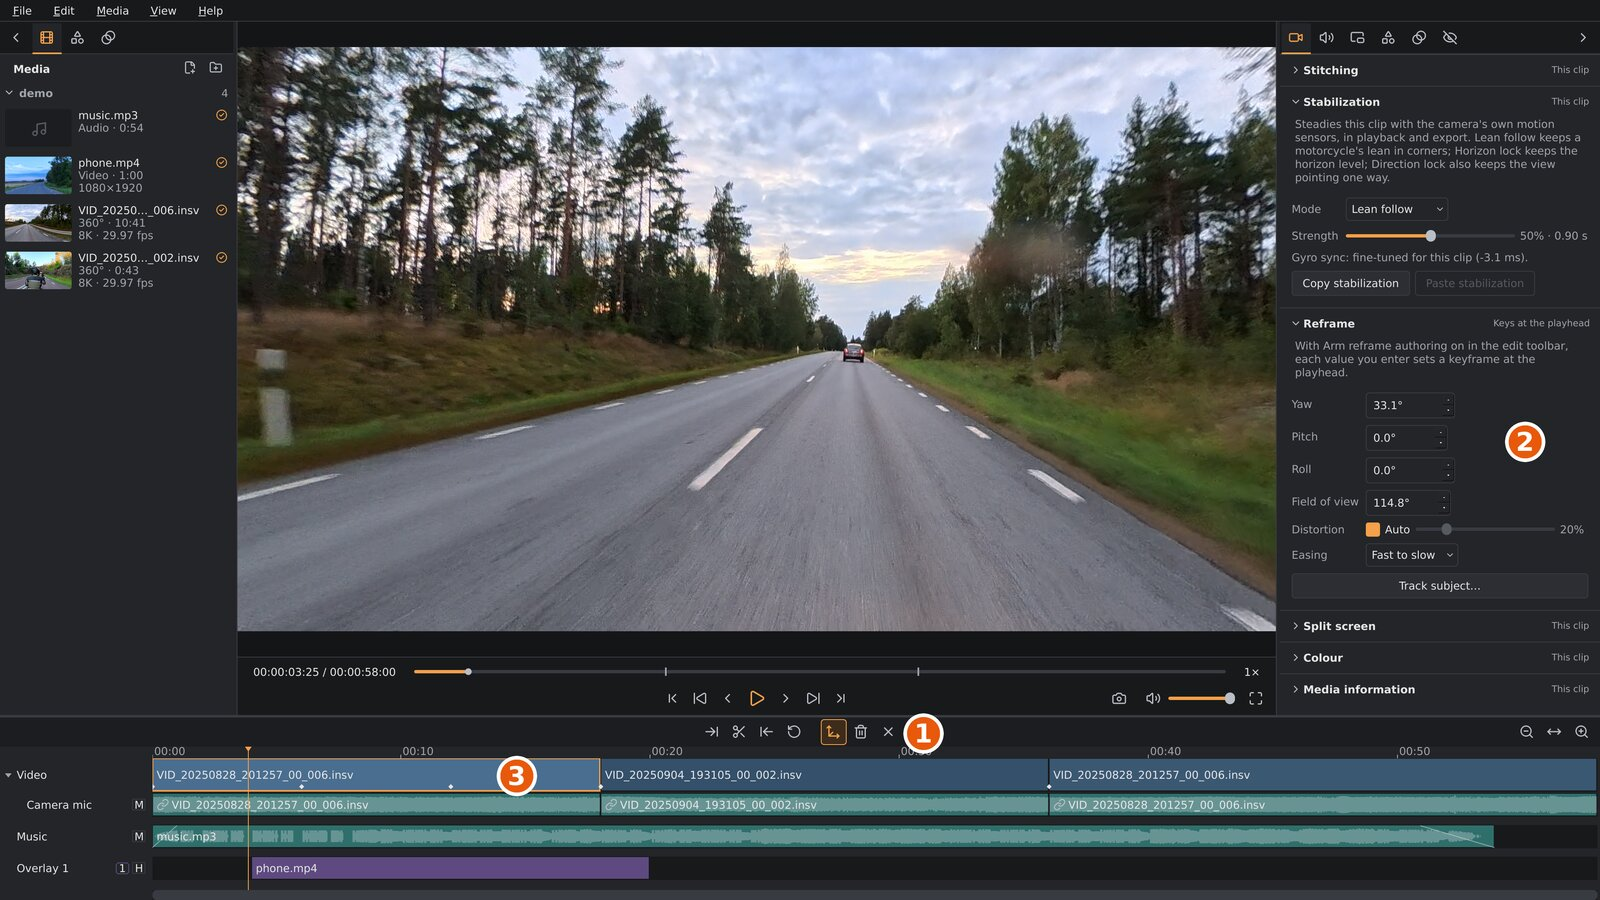
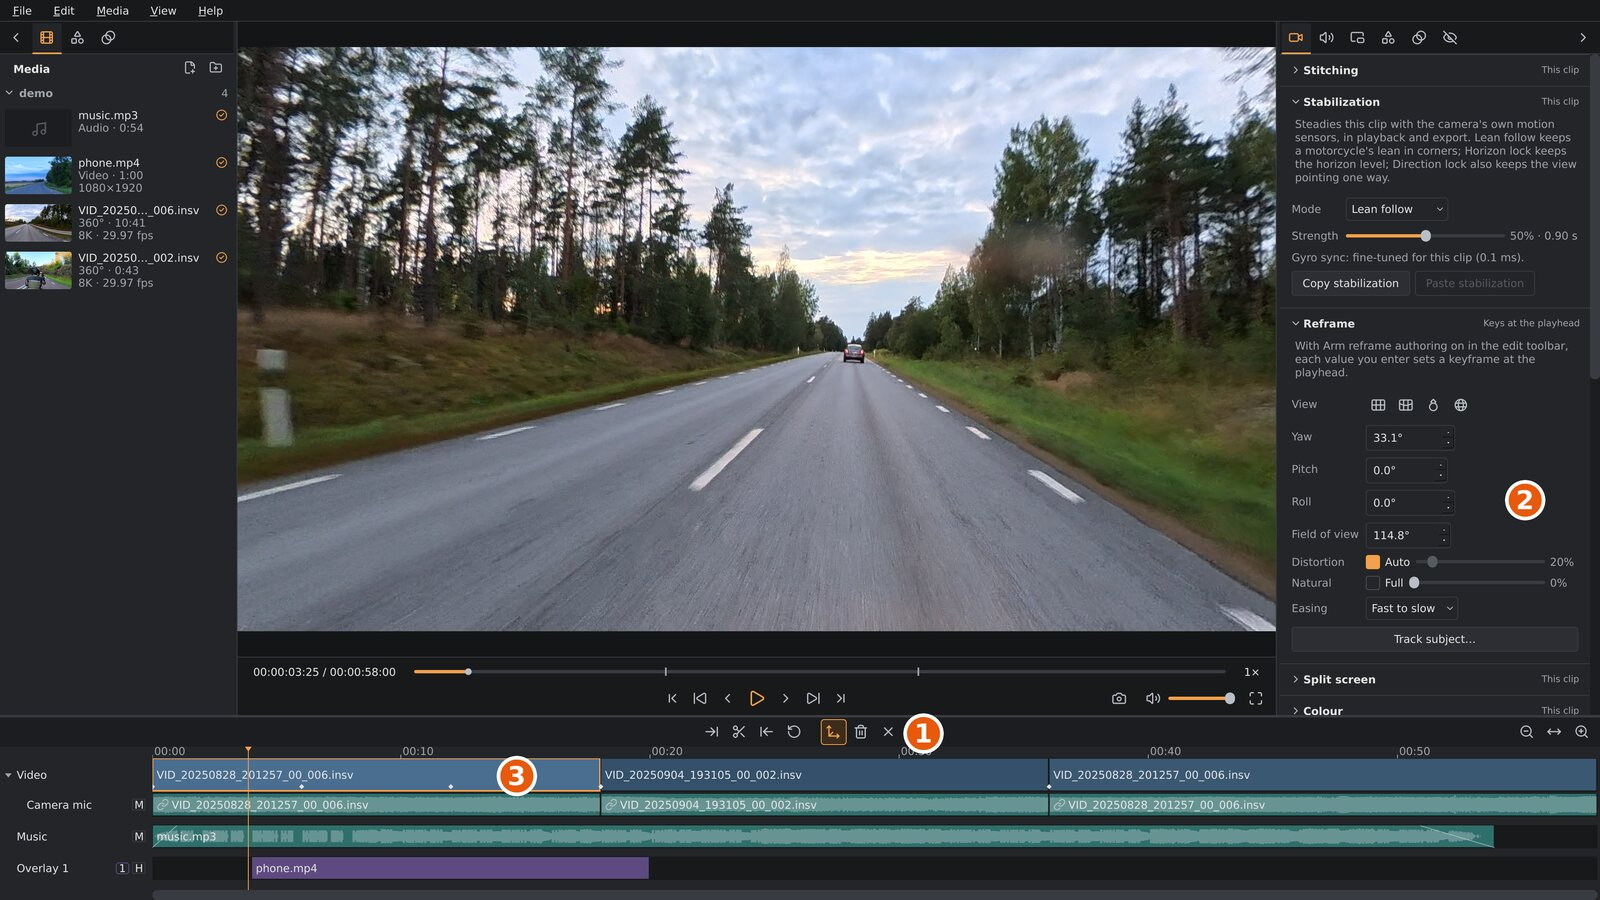
feat(ui): view presets in the Reframe section
A View row above Yaw has four icon buttons -- Normal, Natural, Tiny
planet, Globe -- that set the whole view shape in one click: pitch, field
of view, distortion and Natural from the manual's recipes, roll 0, the
yaw kept so the view still looks the same way. A click is one edit like
typing the values, so it is one undo step and, with reframe authoring
armed, one keyframe; presets on two keys blend like any other values.
Nothing new is saved in the project. The tooltip names the preset and
what it sets; the buttons grey out while tracking runs and hide for a
flat clip, like the fields.

The four icons are our own, drawn in Lucide's style (24 grid, 2 px round
stroke, currentColor) so the theme tints them like the others.

The manual's reframing chapter gets a View presets part, the tiny
planet, globe and Natural parts point to the buttons, and the main
window, reframing and tracking screenshots are retaken with the View and
Natural rows.

diff --git a/src/ui/panels/ReframePanel.cpp b/src/ui/panels/ReframePanel.cpp
@@ -2,6 +2,8 @@
 
 #include "EaseCombo.h"
 
+#include "../Theme.h"
+
 #include <QCheckBox>
 #include <QComboBox>
 #include <QDoubleSpinBox>
@@ -10,6 +12,7 @@
 #include <QLabel>
 #include <QPushButton>
 #include <QSlider>
+#include <QToolButton>
 
 #include <algorithm>
 #include <cmath>
@@ -31,6 +34,41 @@ QDoubleSpinBox *makeAngleBox(QWidget *parent, double lo, double hi, bool wrappin
     b->setKeyboardTracking(false); // emit once on commit, not per keystroke
     return b;
 }
+
+// A View button's shape: everything but the yaw, so the view keeps looking
+// the same way. The values are the manual's recipes.
+struct ViewPreset {
+    const char *objectName;
+    const char *icon;
+    const char *name;
+    const char *tip;
+    double pitchDeg;
+    double fovDeg; // corner to corner; 0: the default view's
+    float distortion;
+    float natural;
+};
+const ViewPreset kViewPresets[] = {
+    {"reframePresetNormal", "view-normal",
+     QT_TRANSLATE_NOOP("ReframePanel", "Normal"),
+     QT_TRANSLATE_NOOP("ReframePanel", "the default view, level, 115° with Auto "
+                                       "distortion."),
+     0.0, 0.0, view::kAutoDistortion, 0.0f},
+    {"reframePresetNatural", "view-natural",
+     QT_TRANSLATE_NOOP("ReframePanel", "Natural"),
+     QT_TRANSLATE_NOOP("ReframePanel", "a wide view with upright lines upright, "
+                                       "level, 170° at 100 % distortion and full Natural."),
+     0.0, 170.0, 1.0f, 1.0f},
+    {"reframePresetTinyPlanet", "view-tiny-planet",
+     QT_TRANSLATE_NOOP("ReframePanel", "Tiny planet"),
+     QT_TRANSLATE_NOOP("ReframePanel", "looking straight down, 300° at 100 % "
+                                       "distortion."),
+     -89.0, 300.0, 1.0f, 0.0f},
+    {"reframePresetGlobe", "view-globe",
+     QT_TRANSLATE_NOOP("ReframePanel", "Globe"),
+     QT_TRANSLATE_NOOP("ReframePanel", "the world as a ball on black, looking straight "
+                                       "down, 200° at 170 % distortion."),
+     -89.0, 200.0, 1.7f, 0.0f},
+};
 } // namespace
 
 ReframePanel::ReframePanel(QWidget *parent)
@@ -44,6 +82,33 @@ ReframePanel::ReframePanel(QWidget *parent)
                           "steer. Clicking a pane in the view picks it too."));
     form()->addRow(tr("Pane"), m_pane);
     connect(m_pane, &QComboBox::activated, this, [this](int i) { emit activePaneEdited(i); });
+
+    // View: the whole view shape at once, above the fields it sets.
+    m_presetRow = new QWidget(this);
+    auto *presetLayout = new QHBoxLayout(m_presetRow);
+    presetLayout->setContentsMargins(0, 0, 0, 0);
+    presetLayout->setSpacing(2);
+    for (const ViewPreset &preset : kViewPresets) {
+        auto *b = new QToolButton(m_presetRow);
+        b->setObjectName(QLatin1String(preset.objectName));
+        b->setIcon(theme::icon(QLatin1String(preset.icon)));
+        b->setIconSize(QSize(18, 18));
+        b->setToolTip(tr("%1: %2 The yaw stays.").arg(tr(preset.name), tr(preset.tip)));
+        b->setAccessibleName(tr(preset.name));
+        b->setAutoRaise(true);
+        presetLayout->addWidget(b);
+        connect(b, &QToolButton::clicked, this, [this, &preset] {
+            edited([&preset](ReframePose &p) {
+                p.pitch = static_cast<float>(preset.pitchDeg * kDegToRad);
+                p.roll = 0.0f;
+                p.fov = preset.fovDeg > 0.0 ? preset.fovDeg * kDegToRad : ReframePose{}.fov;
+                p.distortion = preset.distortion;
+                p.panini = preset.natural;
+            });
+        });
+    }
+    presetLayout->addStretch(1);
+    form()->addRow(tr("View"), m_presetRow);
 
     m_yaw = makeAngleBox(this, -180.0, 180.0, true);
     m_pitch = makeAngleBox(this, -89.0, 89.0, false);
@@ -309,7 +374,8 @@ void ReframePanel::setClip(bool flat, bool fill)
     updateBodyEnabled();
     m_flat = flat;
     for (QWidget *w :
-         std::initializer_list<QWidget *>{m_yaw, m_pitch, m_roll, m_fov, m_distortionRow,
+         std::initializer_list<QWidget *>{m_presetRow, m_yaw, m_pitch, m_roll, m_fov,
+                                          m_distortionRow,
                                           m_naturalRow, m_ease, m_track})
         form()->setRowVisible(w, !flat);
     form()->setRowVisible(m_trackUnavailable, !flat && !m_trackUnavailableReason.isEmpty());
@@ -375,8 +441,9 @@ void ReframePanel::setTrackRunning(bool running)
     if (!running)
         m_trackStatus->clear();
     for (QWidget *w :
-         std::initializer_list<QWidget *>{m_yaw, m_pitch, m_roll, m_fov, m_distortionAuto,
-                                          m_naturalFull, m_natural, m_pane})
+         std::initializer_list<QWidget *>{m_presetRow, m_yaw, m_pitch, m_roll, m_fov,
+                                          m_distortionAuto, m_naturalFull, m_natural,
+                                          m_pane})
         w->setEnabled(!running);
     m_distortion->setEnabled(!running && !m_pose.distortionIsAuto());
     m_ease->setEnabled(m_easeAvailable && !running);

diff --git a/tests/settings_sidebar_test.cpp b/tests/settings_sidebar_test.cpp
@@ -52,6 +52,9 @@
 #include <QTextCursor>
 #include <QToolButton>
 
+#include <cmath>
+#include <numbers>
+
 #include <cstdio>
 
 namespace {
@@ -916,6 +919,67 @@ void testReframeNatural(SettingsSidebar &bar)
     CHECK(natural->isVisibleTo(reframe));
 }
 
+// The View buttons: each sets the whole view shape in one edit and keeps the
+// yaw; the values fit the field of view's range (none clamped); the buttons
+// are greyed out while tracking runs and hidden for a flat clip.
+void testReframeViewPresets(SettingsSidebar &bar)
+{
+    ReframePanel *reframe = bar.reframe();
+    auto *normal = find<QToolButton>(reframe, "reframePresetNormal");
+    auto *natural = find<QToolButton>(reframe, "reframePresetNatural");
+    auto *planet = find<QToolButton>(reframe, "reframePresetTinyPlanet");
+    auto *globe = find<QToolButton>(reframe, "reframePresetGlobe");
+    auto *fov = find<QDoubleSpinBox>(reframe, "reframeFov");
+    if (!normal || !natural || !planet || !globe || !fov)
+        return;
+    bar.setCurrentIndex(SettingsSidebar::VideoTab);
+    reframe->setExpanded(true);
+    reframe->setClip(false);
+    QSignalSpy edited(reframe, &ReframePanel::poseEdited);
+    ReframePose start;
+    start.yaw = 0.5f;
+    start.roll = 0.2f;
+    start.fov = 1.0;
+    start.distortion = 0.3f;
+    start.panini = 0.4f;
+    struct Want {
+        QToolButton *button;
+        double pitchDeg, fovDeg;
+        float distortion, natural;
+    };
+    const Want wants[] = {{normal, 0.0, ReframePose{}.fov * 180.0 / std::numbers::pi,
+                           view::kAutoDistortion, 0.0f},
+                          {natural, 0.0, 170.0, 1.0f, 1.0f},
+                          {planet, -89.0, 300.0, 1.0f, 0.0f},
+                          {globe, -89.0, 200.0, 1.7f, 0.0f}};
+    for (const Want &w : wants) {
+        reframe->setPose(start);
+        edited.clear();
+        CHECK(!w.button->accessibleName().isEmpty() &&
+              w.button->toolTip().startsWith(w.button->accessibleName()));
+        w.button->click();
+        CHECK(edited.count() == 1);
+        if (edited.count() != 1)
+            continue;
+        const ReframePose p = edited.at(0).at(0).value<ReframePose>();
+        CHECK(p.yaw == start.yaw && p.roll == 0.0f);
+        CHECK(std::abs(p.pitch * 180.0 / std::numbers::pi - w.pitchDeg) < 1e-4);
+        CHECK(std::abs(p.fov * 180.0 / std::numbers::pi - w.fovDeg) < 1e-4);
+        CHECK(p.distortion == w.distortion && p.panini == w.natural);
+        CHECK(p.fov <= view::maxFov(p) && p.fov >= view::kMinFov);
+        CHECK(std::abs(fov->value() - w.fovDeg) < 0.05);
+    }
+    reframe->setTrackRunning(true);
+    CHECK(!planet->isEnabled());
+    reframe->setTrackRunning(false);
+    CHECK(planet->isEnabled());
+    reframe->setClip(true);
+    CHECK(!planet->isVisibleTo(reframe));
+    reframe->setClip(false);
+    CHECK(planet->isVisibleTo(reframe));
+    reframe->setPose(ReframePose{});
+}
+
 // The Transition tab: the selected transition's length, why it plays
 // shorter, and removing it; greyed out with none selected.
 void testTransitionTab(SettingsSidebar &bar)
@@ -1158,6 +1222,7 @@ int main(int argc, char **argv)
     testTitleTab(bar);
     testTrackStatus(bar);
     testReframeNatural(bar);
+    testReframeViewPresets(bar);
     testTransitionTab(bar);
     testColourLut(bar);
     testMediaInfoProfile(bar);

diff --git a/src/ui/panels/ReframePanel.h b/src/ui/panels/ReframePanel.h
@@ -13,6 +13,7 @@ class QDoubleSpinBox;
 class QLabel;
 class QPushButton;
 class QSlider;
+class QToolButton;
 
 // Numeric yaw / pitch / roll / field-of-view / distortion fields for the
 // view, an alternative to drag-authoring in the viewport. An edit sets the live
@@ -25,6 +26,11 @@ class QSlider;
 // signal / setter use radians to match ReframePose. Distortion is Auto
 // (following the field of view) or a fixed 0-200 %; Natural Full (100 %) or
 // none, or an amount 0-100 % on its slider.
+//
+// The View buttons set a whole view shape at once -- Normal, Natural, Tiny
+// planet, Globe -- as if their values were typed into the fields: one edit,
+// yaw kept. They are a quicker way to the values, not a mode; the fields
+// stay the view.
 //
 // A split clip (SplitScreenPanel sets the layout): which pane the fields and
 // the viewport steer, the active pane.
@@ -93,6 +99,7 @@ private:
     void showPaneRow();
     void updateBodyEnabled();
 
+    QWidget *m_presetRow = nullptr; // the View buttons
     QDoubleSpinBox *m_yaw = nullptr;
     QDoubleSpinBox *m_pitch = nullptr;
     QDoubleSpinBox *m_roll = nullptr;

diff --git a/tests/theme_test.cpp b/tests/theme_test.cpp
@@ -110,7 +110,8 @@ void testIcons()
     for (const char *name : {"arrow-left-to-line", "arrow-right-to-line", "camera", "clapperboard",
                              "download", "upload", "eye-off", "file-plus-2", "folder-open", "info", "layers",
                              "move-3d", "palette", "pause", "picture-in-picture-2", "rotate-ccw",
-                             "save", "trash-2", "vibrate", "volume-2", "x"}) {
+                             "save", "trash-2", "vibrate", "volume-2", "x", "view-normal", "view-natural",
+                             "view-tiny-planet", "view-globe"}) {
         const QColor s = strokeColor(theme::icon(QString::fromLatin1(name)).pixmap(24, 24));
         if (!near(s, c.icon))
             std::printf("FAIL  icon %s isn't drawn in the icon colour\n", name), ++g_failures;

diff --git a/docs/manual/reframing.md b/docs/manual/reframing.md
@@ -13,8 +13,8 @@ four views at once.
 1. The edit toolbar, with **Arm reframe authoring** on: the button
    outlined in orange. While it's on, every look-around in the viewport
    sets a keyframe.
-2. The **Reframe** section: the view at the playhead as numbers, and
-   **Track subject…**.
+2. The **Reframe** section: the **View** presets, the view at the
+   playhead as numbers, and **Track subject…**.
 3. The clip's keyframes: the white diamonds along the bottom of the clip.
 
 ## The view
@@ -31,8 +31,9 @@ section (settings sidebar, **Video** tab):
 | **Distortion** | How a wide view is drawn: **Auto**, or a fixed amount from 0 % to 100 %, and on to 200 % for a globe (see [Wide views and tiny planets](#wide-views-and-tiny-planets) and [Globes](#globes)). | Auto, 0 % to 200 % |
 | **Natural** | Bends a distorted view only sideways, so upright lines stay upright: **Full**, or an amount (see [Natural](#natural)). | Off, Full, or 0 % to 100 % |
 
-In the viewport, dragging changes yaw and pitch, and the mouse wheel changes
-the field of view. Roll, distortion and Natural can only be set in the
+Above the fields, the **View** buttons set a whole view shape at once
+(see [View presets](#view-presets)). In the viewport, dragging changes yaw
+and pitch, and the mouse wheel changes the field of view. Roll, distortion and Natural can only be set in the
 section. The
 section is greyed out while there's no clip to reframe: none selected and
 none under the playhead.
@@ -42,6 +43,29 @@ as much in a landscape picture as in a portrait one; only the shape of the
 picture differs. The project's aspect ratio (**File ▸ Project settings…**)
 sets that shape. Changing the aspect ratio later keeps your keyframes; the
 corners stay where they were, the edges of the picture move.
+
+### View presets
+
+The four buttons in the **View** row of the **Reframe** section set the
+shape of the view in one click; hold the pointer over one for its name and
+what it sets. They keep the yaw, so the camera still looks the same way,
+and set the roll to 0°:
+
+| Button | Pitch | Field of view | Distortion | Natural |
+|---|---|---|---|---|
+| **Normal**: a straight grid | 0° | 115° | Auto | Off |
+| **Natural**: the grid with a bent horizon | 0° | 170° | 100 % | Full |
+| **Tiny planet**: a house on a small world | −89° | 300° | 100 % | Off |
+| **Globe**: a ball | −89° | 200° | 170 % | Off |
+
+A button does what typing those values into the fields would: with **Arm
+reframe authoring** on it sets a keyframe at the playhead, and **Edit ▸
+Undo** takes the whole click back. It isn't a mode: the fields and sliders
+still show the view, and you can go on from the preset to anything in
+between. Two keyframes with different presets blend like any other two, so
+a key on **Normal** followed by one on **Tiny planet** zooms out into the
+planet, and one on **Globe** after it draws the planet together into a
+ball. The sections below say what each shape does.
 
 ### Wide views and tiny planets
 
@@ -70,8 +94,8 @@ line straight, 100 % keeps every shape. The widest field of view depends on
 the amount: 145° at 0 %, 330° at 100 % or with Auto. Lowering the amount
 narrows a view that is wider than it allows.
 
-For a **tiny planet**, look straight down (pitch −89°) and widen the field
-of view to 250° or more: the ground curls into a small globe with the sky
+For a **tiny planet**, click **Tiny planet** under **View**, or look
+straight down (pitch −89°) and widen the field of view to 250° or more: the ground curls into a small globe with the sky
 around it. Looking straight up instead turns the sky into a tunnel. A
 keyframe move from a normal view to a tiny planet zooms out smoothly, and
 with Auto on both keyframes the picture bends more and more as it widens.
@@ -87,7 +111,8 @@ picture around it turns black, as if you stepped further and further back.
 At 200 % you see one half of the world in the disc, the half the view looks
 at. 100 % is the middle of the slider.
 
-Look straight down for a planet-like globe, or straight up for the sky in a
+**Globe** under **View** sets one up. Look straight down for a
+planet-like globe, or straight up for the sky in a
 ball. On a globe, **Field of view** still sets how big the picture is: the
 disc is as large as the tiny planet at that angle would be at 100 %, so
 wider makes the globe smaller. Auto never goes past 100 %, so zooming out
@@ -125,8 +150,9 @@ photographers call **Panini**.
 Natural works on the distortion, so at 0 % distortion it does nothing: the
 picture there has no bend to take out. With Auto, it acts on the amount
 Auto uses, which is small at the default field of view. To see it clearly,
-untick **Auto**, set the distortion to 100 % and the field of view to 170°
-or more, and look level at something upright near the sides. Upright lines
+click **Natural** under **View** (or untick **Auto**, set the distortion to
+100 % and the field of view to 170° or more), and look level at something
+upright near the sides. Upright lines
 come out upright when the view is level with the world: if the horizon is
 tilted, they straighten along the tilt. Between two keyframes the amount
 moves smoothly, like the distortion. Natural works on a globe too, which
@@ -350,8 +376,8 @@ very wide.
 
 The **active pane** is the one with the outline in the viewport. Everything
 that changes the view acts on it: dragging and the mouse wheel in the
-viewport, the **Yaw**, **Pitch**, **Roll**, **Field of view**,
-**Distortion**, **Natural** and **Easing** fields, `K`, `Shift+K` and **Delete all keyframes**, and
+viewport, the **View** buttons, the **Yaw**, **Pitch**, **Roll**,
+**Field of view**, **Distortion**, **Natural** and **Easing** fields, `K`, `Shift+K` and **Delete all keyframes**, and
 **Track subject…**. The keyframe diamonds on the clip are the active
 pane's, and `Shift+↓` / `Shift+↑` go to its keyframes.
 

diff --git a/THIRD_PARTY.md b/THIRD_PARTY.md
@@ -22,7 +22,7 @@ models' licenses are next to each model, in
 | [ncnn](https://github.com/Tencent/ncnn) (Tencent) | 20261020, the `ubuntu-2404-shared` release (or an installed copy when present) | BSD-3-Clause (its third-party parts: zlib, BSD-2-Clause, BSD-3-Clause) | Runs the number-plate model on the GPU (plate scan). An installed ncnn is linked and not shipped; the fetched or `NCNN_ROOT` copy is bundled in `lib/orbis-reframe/` | `packaging/licenses/ncnn-LICENSE.txt` |
 | [nlohmann/json](https://github.com/nlohmann/json) (Niels Lohmann) | 3.11.3 (Debian's `nlohmann-json3-dev`) | MIT | Reads and writes project files. Header-only, compiled into the binary | `packaging/licenses/nlohmann-json-LICENSE.MIT` |
 | [miniaudio](https://miniaud.io/) (David Reid) | 0.11.25, in `external/miniaudio/` | Unlicense OR MIT-0 | Plays the sound: compiled into the binary, it loads the system's libpulse / ALSA / JACK at run time | `external/miniaudio/LICENSE` |
-| [Lucide](https://lucide.dev/) icons (some derived from [Feather](https://feathericons.com/)) | -- | ISC (Feather parts: MIT) | Toolbar and panel icons, compiled into the binary | `resources/icons/LICENSE.lucide` |
+| [Lucide](https://lucide.dev/) icons (some derived from [Feather](https://feathericons.com/)) | -- | ISC (Feather parts: MIT) | Toolbar and panel icons, compiled into the binary (the `view-*` ones are our own, drawn in its style) | `resources/icons/LICENSE.lucide` |
 | [DeepFilterNet 3](https://github.com/Rikorose/DeepFilterNet) model (Hendrik Schröter and contributors) | repository commit `84d57ec` | MIT OR Apache-2.0 | The "Voice only" / "Voice + ambience" noise modes | `resources/models/deepfilternet3/LICENSE-MIT`, `LICENSE-APACHE` |
 | [VitTrack](https://github.com/opencv/opencv_zoo) model (OpenCV Zoo) | `object_tracking_vittrack_2023sep` | Apache-2.0 | Checks that subject tracking still follows the same subject | `resources/models/vittrack/LICENSE-APACHE` |
 | YOLOv9-s licence-plate model from [open-image-models](https://github.com/ankandrew/open-image-models) (ankandrew) | `yolo-v9-s-608-license-plates-end2end`, converted for ncnn | MIT | Finds number plates for the privacy blur | `resources/models/plates/LICENSE-MIT` |
